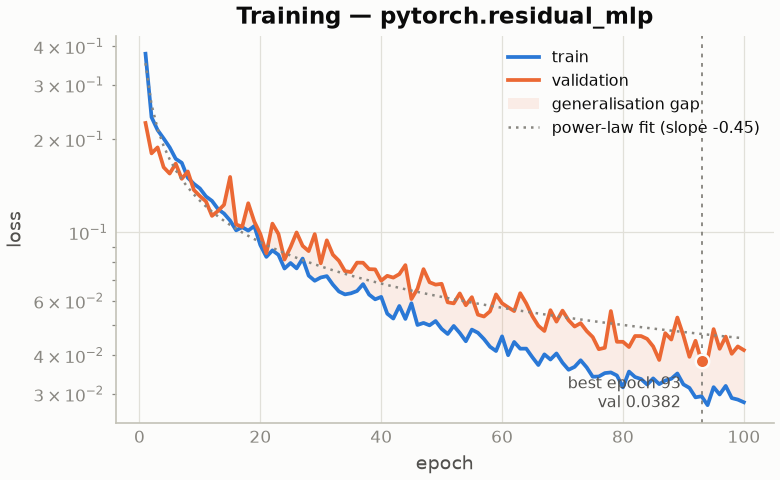
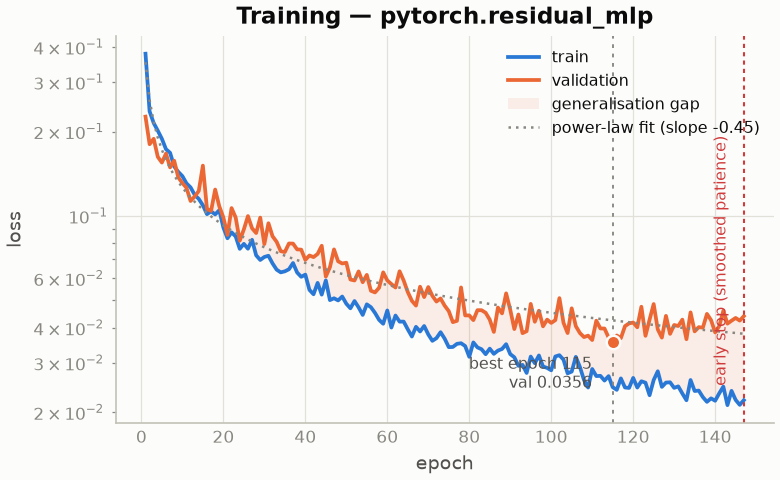
feat(training): smoothed early stopping — patience on the rolling-mean val loss
ResidualMLP gains patience_window (rolling-mean window for the
early-stopping signal; 1 = legacy raw behavior) and min_delta. The
smoothed signal is robust to noisy validation curves: training stops on
true saturation instead of on a lucky epoch, while best-weight
restoration still tracks the raw minimum. val_loss_smoothed is recorded
in the training log.

Showcase regenerated with the mechanism live: 300-epoch budget,
patience=30 on a 10-epoch rolling mean → stops itself at epoch 147
(best epoch 115, test R² 0.956), early-stop line annotated. Unit tests:
early termination on plateau, window=1 legacy equivalence, prompt
saturation stopping on a synthetic oscillating plateau.

diff --git a/surge/model/backends/residual_mlp.py b/surge/model/backends/residual_mlp.py
@@ -110,7 +110,17 @@ class ResidualMLPModel:
     dropout_rate:
         Dropout applied inside each residual block.  Default 0.1.
     patience:
-        Early-stopping patience (epochs without val-loss improvement).
+        Early-stopping patience (epochs without improvement of the
+        early-stopping signal).
+    patience_window:
+        Rolling-mean window (epochs) for the early-stopping signal.
+        1 (default) compares raw per-epoch validation loss — the
+        historical behavior; larger windows compare the smoothed loss,
+        which is robust to noisy validation curves and stops on true
+        saturation rather than on a lucky epoch.
+    min_delta:
+        Minimum decrease of the (smoothed) validation loss that counts
+        as an improvement for the patience counter.
         Default 20.  Set to 0 to disable.
     device:
         ``"cpu"``, ``"cuda"``, or ``None`` (auto-detect).
@@ -130,6 +140,8 @@ class ResidualMLPModel:
         batch_size: int = 64,
         dropout_rate: float = 0.1,
         patience: int = 20,
+        patience_window: int = 1,
+        min_delta: float = 0.0,
         device: str | None = None,
         random_state: int = 42,
         verbose: bool = False,
@@ -149,6 +161,8 @@ class ResidualMLPModel:
         self.batch_size = batch_size
         self.dropout_rate = dropout_rate
         self.patience = patience
+        self.patience_window = max(1, int(patience_window))
+        self.min_delta = float(min_delta)
         self.device = torch.device(device or ("cuda" if torch.cuda.is_available() else "cpu"))
         self.random_state = random_state
         self.verbose = verbose
@@ -260,6 +274,9 @@ class ResidualMLPModel:
         best_val_loss = float("inf")
         best_state: dict | None = None
         no_improve = 0
+        from collections import deque
+        recent_val: deque = deque(maxlen=self.patience_window)
+        best_smoothed = float("inf")
         from ._progress import ProgressList
         self.training_history = ProgressList(
             self.n_epochs, verbose=self.verbose,
@@ -284,9 +301,16 @@ class ResidualMLPModel:
                 with torch.no_grad():
                     val_loss = criterion(self._net(Xv), yv).item()
                 record["val_loss"] = val_loss
+                # best-weight restoration always tracks the raw minimum
                 if val_loss < best_val_loss:
                     best_val_loss = val_loss
                     best_state = {k: v.clone() for k, v in self._net.state_dict().items()}
+                # early-stopping signal: rolling mean over patience_window
+                recent_val.append(val_loss)
+                smoothed = sum(recent_val) / len(recent_val)
+                record["val_loss_smoothed"] = smoothed
+                if smoothed < best_smoothed - self.min_delta:
+                    best_smoothed = smoothed
                     no_improve = 0
                 else:
                     no_improve += 1

diff --git a/tests/unit/test_smoothed_patience.py b/tests/unit/test_smoothed_patience.py
@@ -1,0 +1,71 @@
+"""Tests for rolling-mean (smoothed) early stopping in the residual MLP."""
+from __future__ import annotations
+
+import numpy as np
+import pytest
+
+pytest.importorskip("torch")
+
+from surge.model.backends.residual_mlp import ResidualMLPModel
+
+
+def _toy(n=300, seed=0):
+    rng = np.random.default_rng(seed)
+    X = rng.uniform(-1, 1, (n, 3)).astype(np.float32)
+    y = (X @ np.array([1.0, -2.0, 0.5]) + 0.05 * rng.standard_normal(n))
+    return X, y.astype(np.float32)
+
+
+def test_smoothed_patience_stops_before_max_epochs():
+    X, y = _toy()
+    Xv, yv = _toy(80, seed=1)
+    model = ResidualMLPModel(
+        hidden_layers=[16], n_epochs=400, patience=8, patience_window=5,
+        random_state=0, verbose=0)
+    model.fit(X, y, Xv, yv)
+    hist = list(model.training_history)
+    assert len(hist) < 400, "plateaued training must stop early"
+    assert hist[-1].get("early_stop") is True
+    assert "val_loss_smoothed" in hist[-1]
+
+
+def test_window_one_matches_legacy_signal():
+    """patience_window=1: smoothed signal equals raw val loss per epoch."""
+    X, y = _toy(150)
+    Xv, yv = _toy(50, seed=2)
+    model = ResidualMLPModel(
+        hidden_layers=[8], n_epochs=25, patience=0, patience_window=1,
+        random_state=0, verbose=0)
+    model.fit(X, y, Xv, yv)
+    for rec in model.training_history:
+        if "val_loss" in rec:
+            assert rec["val_loss_smoothed"] == pytest.approx(rec["val_loss"])
+
+
+def test_smoothed_signal_stops_promptly_at_saturation():
+    """The rolling-mean signal keeps counting improvement while the trend
+    decreases and terminates within patience+window epochs once the mean
+    saturates — even though raw epochs still oscillate."""
+    from collections import deque
+
+    decreasing = [1.0 - 0.03 * i for i in range(20)]          # real progress
+    plateau = [0.4 + (0.05 if i % 2 else -0.05) for i in range(60)]
+    losses = decreasing + plateau
+    patience, window_len = 8, 5
+
+    window, best, no_improve = deque(maxlen=window_len), float("inf"), 0
+    stop = None
+    for i, loss in enumerate(losses):
+        window.append(loss)
+        sig = sum(window) / len(window)
+        if sig < best:
+            best, no_improve = sig, 0
+        else:
+            no_improve += 1
+            if no_improve >= patience:
+                stop = i
+                break
+
+    assert stop is not None, "must terminate on the plateau"
+    # no premature stop during real progress; prompt stop after saturation
+    assert 20 <= stop <= 20 + window_len + patience

diff --git a/examples/viz_theme_gallery.py b/examples/viz_theme_gallery.py
@@ -204,6 +204,16 @@ def training_figure(hpo_run: Path, mode: str):
                 ax.plot(epochs[ok], np.exp(a) * epochs[ok]**b,
                         color=p["muted"], lw=1.2, ls=(0, (1, 2)),
                         label=f"power-law fit (slope {b:.2f})")
+        if rows and rows[-1].get("early_stop"):
+            ax.axvline(epochs[-1], color=p["critical"], lw=1.0,
+                       ls=(0, (2, 2)))
+            mid_y = float(np.exp((np.log(np.nanmax(val))
+                                  + np.log(np.nanmin(train))) / 2))
+            ax.annotate("early stop (smoothed patience)",
+                        (epochs[-1], mid_y),
+                        textcoords="offset points", xytext=(-7, 0),
+                        rotation=90, ha="right", va="center",
+                        fontsize=7.5, color=p["critical"])
         ax.set_yscale("log")
         ax.set_xlabel("epoch"); ax.set_ylabel("loss")
         ax.set_title(f"Training — {name}")

diff --git a/README.md b/README.md
@@ -93,7 +93,7 @@ sortable tables — generated exclusively from
 | <img src="docs/assets/readme/field2d.png" width="400" alt="2D operator learning: FNO-2D solves the periodic Poisson problem, median rel-L2 0.006"/> | <img src="docs/assets/readme/uncertainty.png" width="400" alt="GP surrogate with 68/95% credible bands"/> |
 | *2D operator learning: FNO-2D learns the periodic Poisson solver source→solution at median rel-L2 **0.006** (32×32 fields; U-Net available for the same task shape).* | *Gaussian-process surrogate with 68/95% credible bands — the band widens where training data is absent (96% truth coverage).* |
 | <img src="docs/assets/readme/ensemble.png" width="400" alt="Deep-ensemble uncertainty: mean ± 2 sigma parity, spread vs error, raw vs calibrated coverage"/> | <img src="docs/assets/gallery/training_curves.png" width="400" alt="Training monitoring: train/val loss, generalisation gap, power-law fit, last-10-epoch mean"/> |
-| *Deep-ensemble UQ (`pytorch.mlp_ensemble`): mean ± 2σ predictions, and honest calibration — raw spread is overconfident; σ-rescaling on a held-out split recovers near-Gaussian coverage.* | *Training monitoring from per-epoch JSONL logs (100-epoch run): generalisation gap shaded, best epoch starred, power-law convergence fit tracking the saturation.* |
+| *Deep-ensemble UQ (`pytorch.mlp_ensemble`): mean ± 2σ predictions, and honest calibration — raw spread is overconfident; σ-rescaling on a held-out split recovers near-Gaussian coverage.* | *Training monitoring from per-epoch JSONL logs: generalisation gap shaded, best epoch marked, power-law convergence fit — and training stops itself via **smoothed early stopping** (patience on the rolling-mean validation loss), here at epoch 147 of 300 allowed.* |
 
 Regenerate everything above from your own runs — full gallery per
 problem type in [`docs/gallery.md`](docs/gallery.md):

diff --git a/docs/gallery.md b/docs/gallery.md
@@ -29,8 +29,9 @@ gold star at each model's optimum with its score.
 ## Neural-network training
 
 Per-epoch train/validation loss from the JSONL training logs: shaded
-generalisation gap, starred best epoch, and a power-law convergence
-fit tracking the saturation.
+generalisation gap, best epoch marked, power-law convergence fit, and
+smoothed early stopping (patience on the rolling-mean validation loss)
+terminating training at true saturation.
 
 ![Training curves](assets/gallery/training_curves.png)
 
